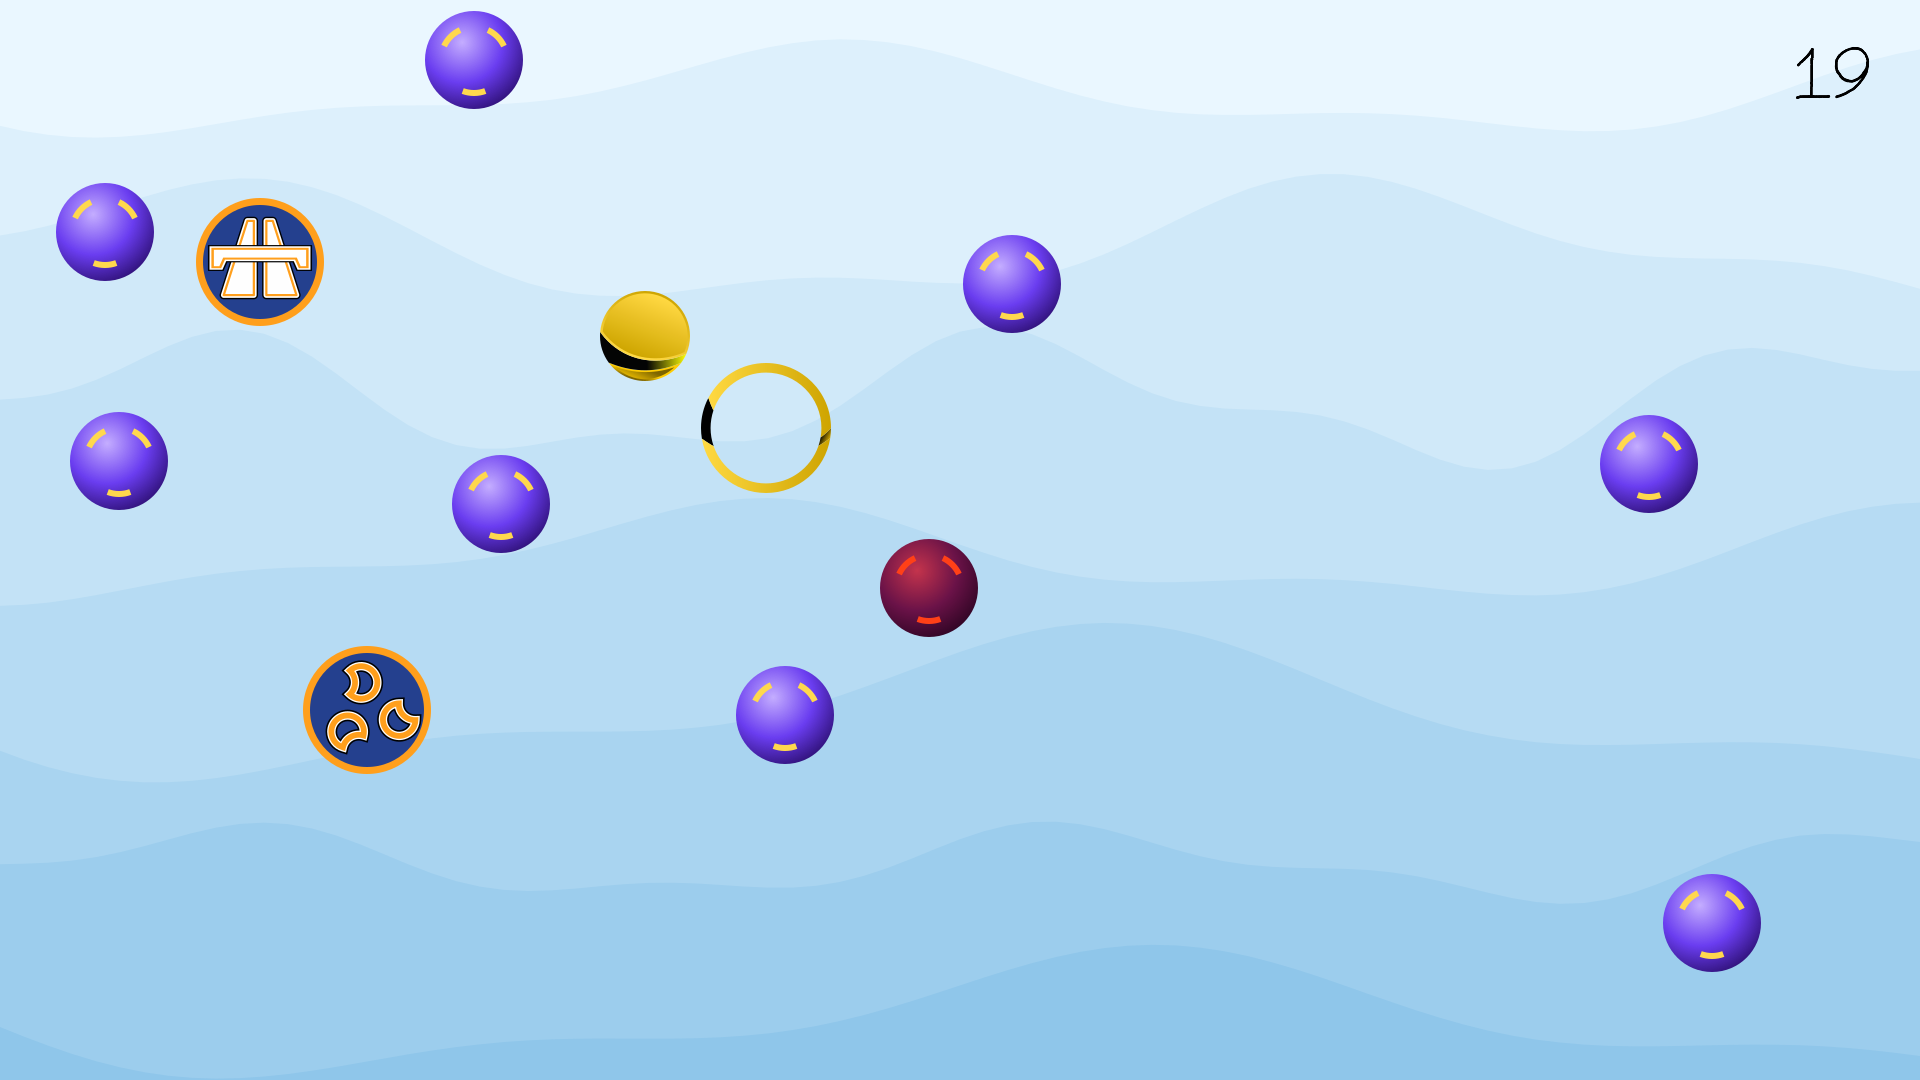
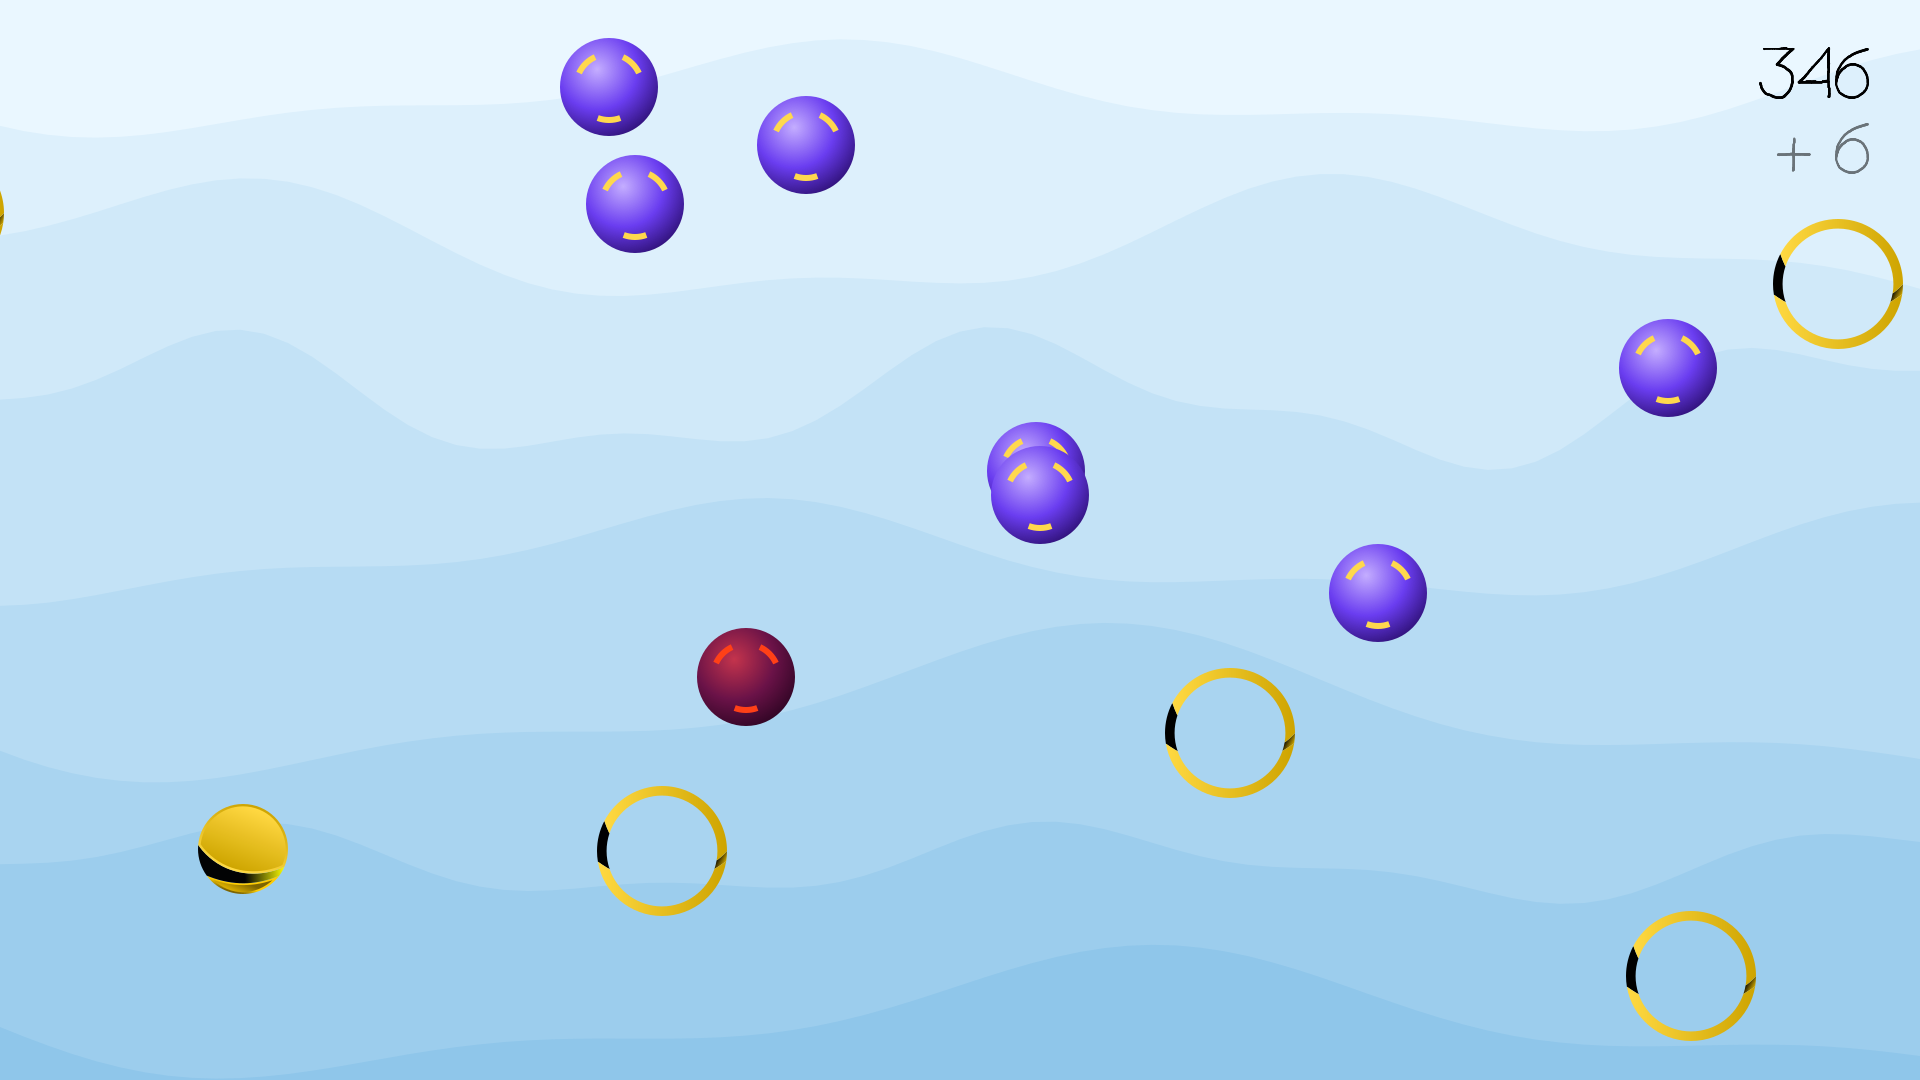
Buz temasi goruntusu: bir anda cogalan halkalar modu

diff --git a/index.html b/index.html
@@ -292,7 +292,7 @@
       <img src="img/shot_purple.png" width="1920" height="1080" loading="lazy" alt="Gameplay in the Purple theme: the hoop chases the disc among orange targets">
       <img src="img/shot_ocean.png" width="1920" height="1080" loading="lazy" alt="Gameplay in the Ocean theme with power-up targets">
       <img src="img/shot_neon.png" width="1920" height="1080" loading="lazy" alt="Gameplay in the Neon theme with three hoops on screen">
-      <img src="img/shot_ice.png" width="1920" height="1080" loading="lazy" alt="Gameplay in the Ice theme">
+      <img src="img/shot_ice.png" width="1920" height="1080" loading="lazy" alt="Gameplay in the Ice theme with five hoops closing in at once">
     </div>
   </div>
 </section>
